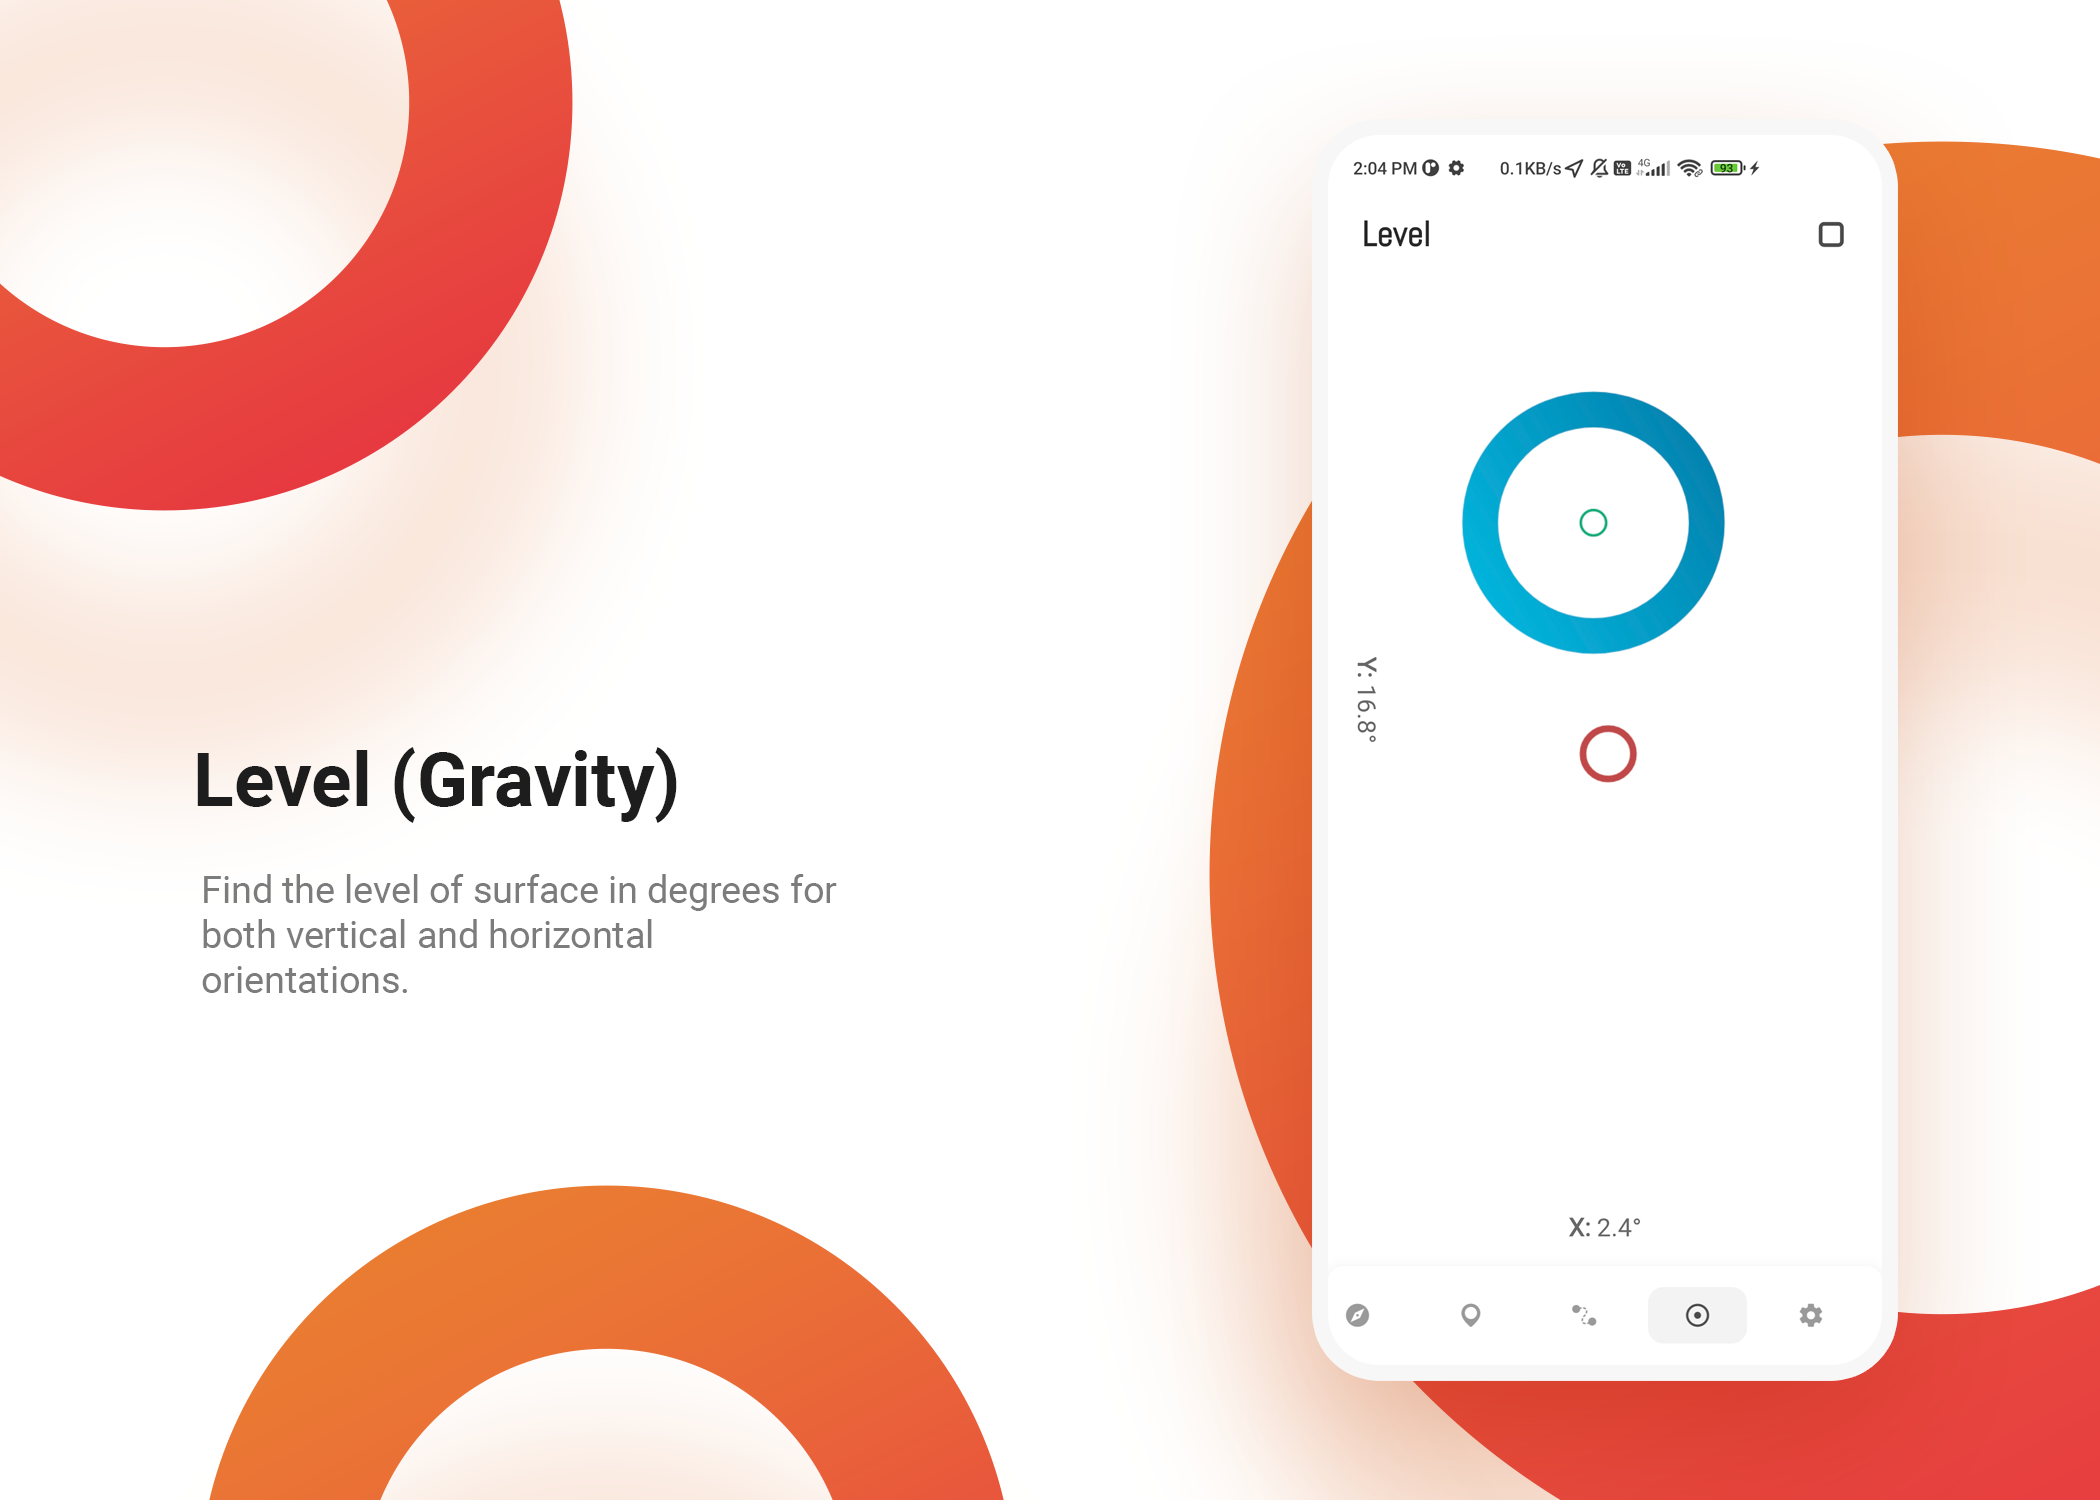
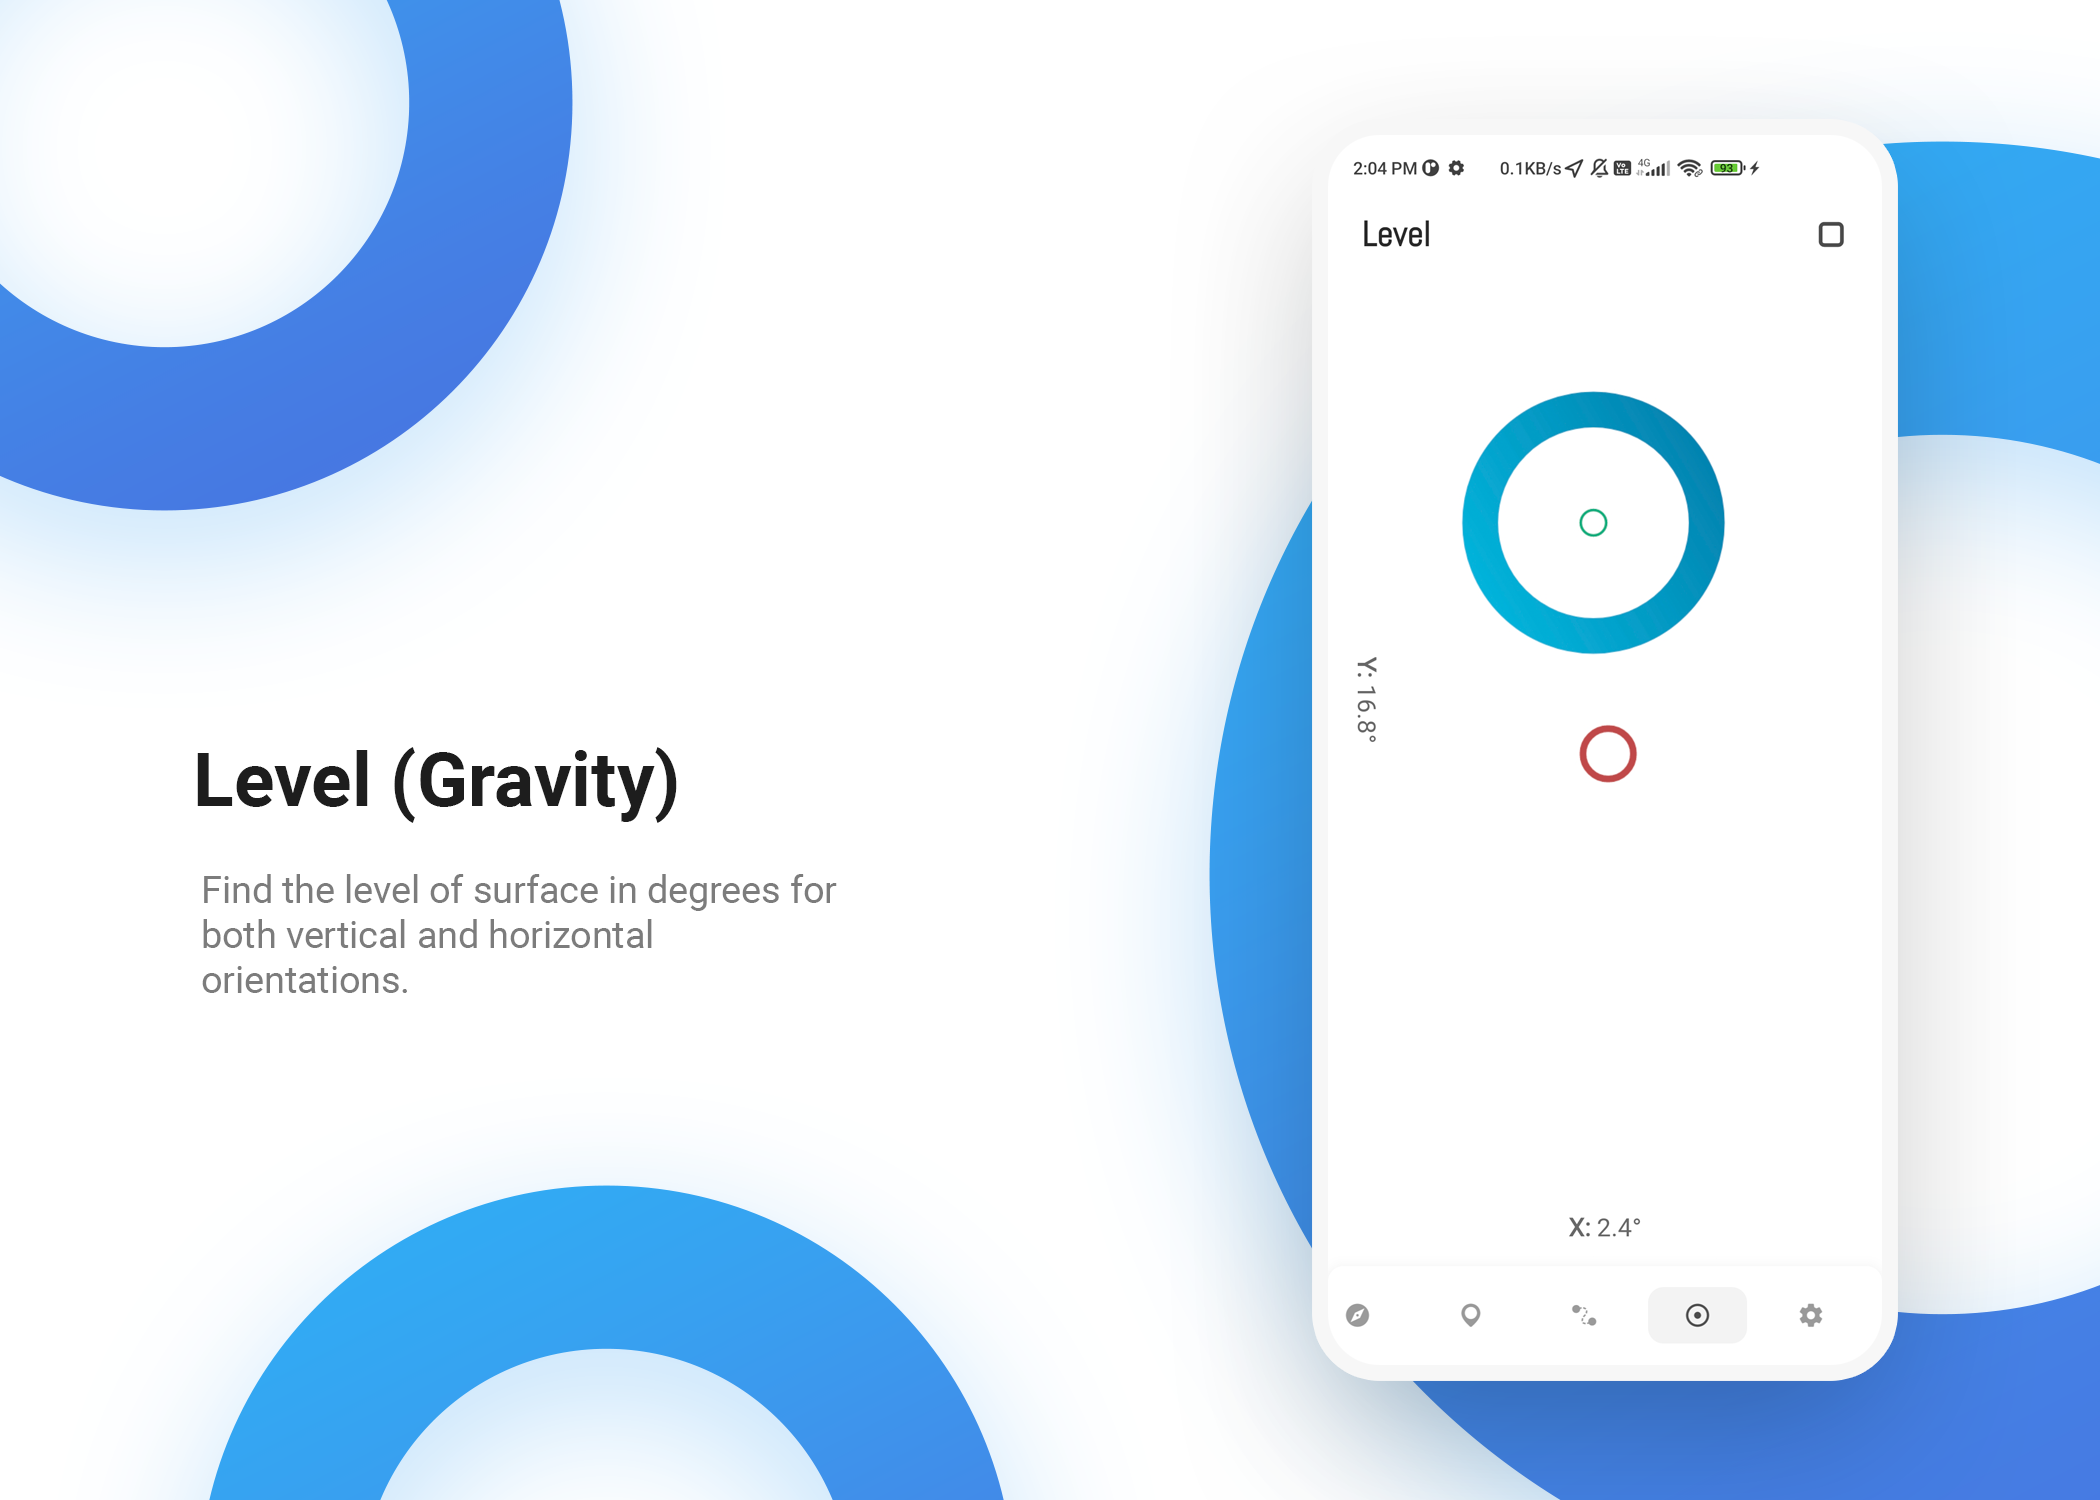
Build162_quick_release
- Updated screenshots
  - Updated dependencies

diff --git a/app/src/main/java/app/simple/positional/services/LocationService.kt b/app/src/main/java/app/simple/positional/services/LocationService.kt
@@ -73,7 +73,7 @@ class LocationService : Service(), LocationListener {
             intent.putExtra("location_provider", provider)
             LocalBroadcastManager.getInstance(baseContext).sendBroadcast(intent)
         }
-    } 
+    }
 
     private val locationUpdater: Runnable = object : Runnable {
         override fun run() {

diff --git a/README.md b/README.md
@@ -19,8 +19,8 @@ On top of all the core functionality Positional is a highly polished app and pro
 [![Free](https://img.shields.io/badge/Free%20Version-Play%20Store-839192?style=flat&logo=google%20play)](https://play.google.com/store/apps/details?id=app.simple.positional.lite)
 [![Full](https://img.shields.io/badge/Full%20Version-Play%20Store-2E86C1?style=flat&logo=google%20play)](https://play.google.com/store/apps/details?id=app.simple.positional)
 
-[![Free](https://img.shields.io/badge/Free%20Version-Github-white?style=flat&logo=github)](https://github.com/Hamza417/Positional/releases/download/Build161/app-lite-release.apk)
-[![Full](https://img.shields.io/badge/Full%20Version%20(Requires%20License)-Github-white?style=flat&logo=github)](https://github.com/Hamza417/Positional/releases/download/Build161/app-full-release.apk)
+[![Free](https://img.shields.io/badge/Free%20Version-Github-white?style=flat&logo=github)](https://github.com/Hamza417/Positional/releases/download/Build162/app-lite-release.apk)
+[![Full](https://img.shields.io/badge/Full%20Version%20(Requires%20License)-Github-white?style=flat&logo=github)](https://github.com/Hamza417/Positional/releases/download/Build162/app-full-release.apk)
 
 [![Intro](https://img.shields.io/youtube/views/34iuIlusrcs?label=Watch%20App%20Intro&logo=Youtube&logoColor=red&style=social)](https://youtu.be/34iuIlusrcs)
 
